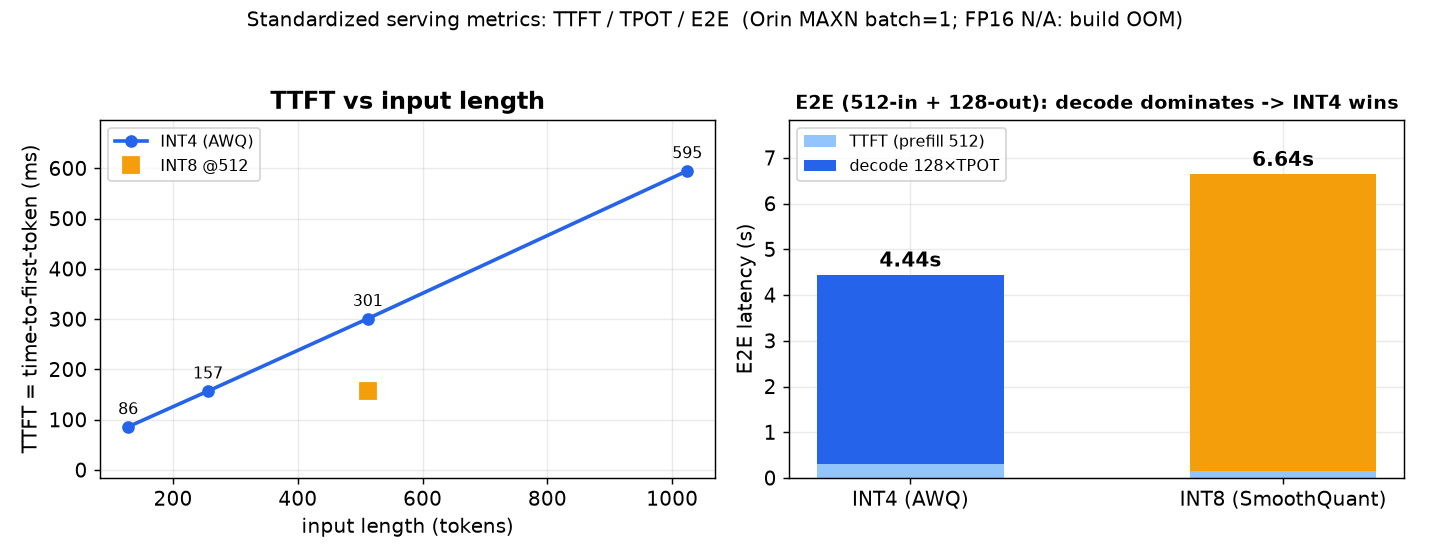
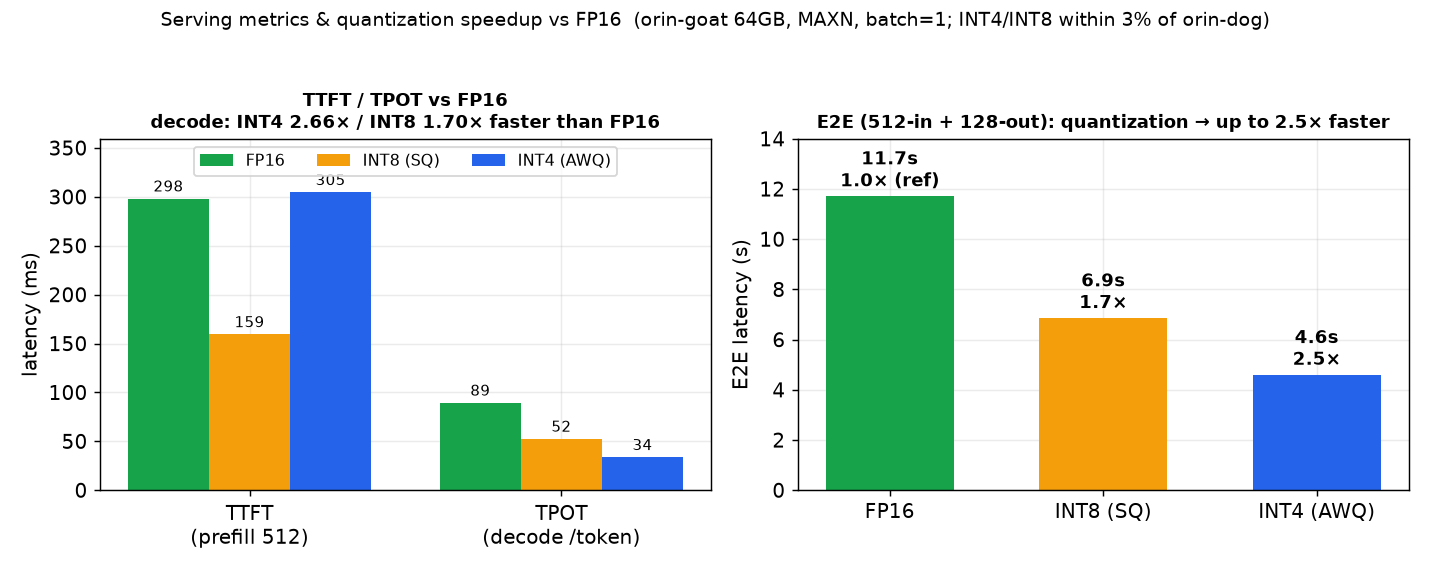
perf: FP16 baseline via 64GB orin-goat -> quantization speedup vs FP16 (the missing number)
Built FP16 engine on 64GB orin-goat (impossible on 32GB dog). Same-device (goat) 3-way:
- TTFT: FP16 298 / INT8 159 / INT4 305 ms   TPOT: FP16 89.3 / INT8 52.4 / INT4 33.6 ms
- decode speedup vs FP16: INT4 2.66x, INT8 1.70x ; prefill: INT8 1.87x, INT4 ~= FP16
- E2E(512+128): FP16 11.7s -> INT8 6.9s -> INT4 4.6s (2.5x)
KEY: FP16 build peak RAM measured 54.8GB (>> dog 30GB) -> that's why dog OOM'd, NOT inference
(runtime activation only 8MB). Engine portable (same sm_87+TRT10.7) -> build on goat, run on dog.
Cross-device: goat INT4/INT8 within 3% of dog (reproduced). serving_metrics.png now 3-way.

diff --git a/alpamayo-edge/site/index.html b/alpamayo-edge/site/index.html
@@ -76,7 +76,7 @@ footer a{color:var(--accent)}
   <p>把 NVIDIA <strong>Cosmos-Reason2-8B</strong>（物理场景推理 VLM，非轨迹预测器，属"感知 + 推理 / 可解释"层）用 <strong>TensorRT-Edge-LLM</strong> 量化为 <strong>INT4 (AWQ)</strong> 与 <strong>INT8 (SmoothQuant)</strong>，部署到 <strong>Jetson Orin (sm_87)</strong> 端到端跑通推理；按标准服务指标（TTFT / TPOT / TPS / E2E）测性能功耗，并在<strong>官方 Cosmos-Reason1-Benchmark（带标准答案）</strong>实测量化对<strong>任务正确率</strong>的影响。<span style="color:var(--muted)">零预算 · 零训练 · 全 Orin。</span></p>
   <p style="margin-bottom:4px"><strong>核心结论：</strong></p>
   <ol style="margin-top:0">
-    <li><strong>量化是落地必需</strong>：FP16 引擎（~16GB）在 Orin 上 build 期 <strong>OOM 装不下</strong>；INT4(4.6GB)/INT8(7.9GB) 才能部署。</li>
+    <li><strong>量化既提速又降低部署门槛</strong>：decode 比 FP16 快 <strong>2.66×(INT4)/1.70×(INT8)</strong>、E2E 快 2.5×；且 FP16 引擎 build 期需实测 <strong>~55GB 内存</strong>，32GB Orin 装不下(OOM)、须在 64GB 机 build（引擎再拷回 32GB 跑）。</li>
     <li><strong>量化无显著正确率损失</strong>：真实基准(n=210)上 FP16 76.2% / INT8 75.2% / INT4 73.8%，差异 <strong>全部统计不显著(McNemar p&gt;0.4、95%CI 重叠)</strong>。即量化在任务正确率上几乎无损。</li>
     <li><strong>选型：decode 看 INT4、prefill 看 INT8</strong>——INT4 decode 快 1.57×/更省电/更省显存(−42%)，INT8 prefill 快 1.9×/能效高 2.3×；生成越长 INT4 的 E2E 越占优。</li>
   </ol>
@@ -114,20 +114,21 @@ footer a{color:var(--accent)}
     <figure><img src="figures/decode_scaling.png" alt="decode scaling"><figcaption><b>横轴</b>：上下文长度(past-KV token 数，128→4000)<br><b>竖轴</b>：INT4 decode 吞吐 TPS (tokens/s)<br><b>结果</b>：上下文涨 31× 吞吐仅降 9%<br><b>分析</b>：decode 延迟由权重搬运主导、注意力占比小，故长上下文几乎不掉速 ⇒ 适合长对话/长文档</figcaption></figure>
     <figure><img src="figures/footprint.png" alt="footprint"><figcaption><b>横轴</b>：三类产物(Orin LLM 引擎 / 打包 tgz / 载入显存)<br><b>竖轴</b>：体积(GB)<br><b>结果</b>：INT4 比 INT8 约省 42%<br><b>分析</b>：LLM 主干 INT8≈INT4 的 1.7×(近 W8A8 vs W4A16 理论 2×，差在共享 fp16 词嵌入/视觉塔)；省下的显存可留给更长 KV cache 或多模型并存</figcaption></figure>
   </div>
-  <figure><img src="figures/serving_metrics.png" alt="serving metrics TTFT/E2E"><figcaption><b>横轴</b>：左=输入长度(token)，右=两种精度<br><b>竖轴</b>：左=TTFT 首 token 延迟(ms)，右=E2E 端到端延迟(s，堆叠=prefill+decode)<br><b>结果</b>：TTFT 随输入近线性增(INT4 128→1024tok：86→595ms)；512-in+128-out 的 E2E，INT4 4.44s < INT8 6.64s<br><b>分析</b>：短输出/长输入看 TTFT(INT8 prefill 快)，但生成越长 decode(TPOT) 越主导 → INT4 的 E2E 反而更优；FP16 因 OOM 无设备端数据</figcaption></figure>
   <table>
-    <tr><th>标准服务指标（Orin sm_87 / JetPack 6.2 / CUDA 12.6 / TRT 10.7 / MAXN, batch=1）</th><th>FP16</th><th>INT4 (AWQ)</th><th>INT8 (SmoothQuant)</th></tr>
-    <tr><td><b>TTFT</b> 首 token 延迟（512-token 输入 prefill）</td><td>✗</td><td>300.98 ms</td><td class="win">157.45 ms</td></tr>
-    <tr><td><b>TPOT / ITL</b> 每输出 token 延迟（decode@pastKV512）</td><td>✗</td><td class="win">32.34 ms</td><td>50.65 ms</td></tr>
-    <tr><td><b>输出 TPS</b>（decode 吞吐）</td><td>✗</td><td class="win">30.9</td><td>19.7</td></tr>
-    <tr><td><b>Prefill 吞吐</b></td><td>✗</td><td>1701 TPS</td><td class="win">3252 TPS</td></tr>
-    <tr><td><b>E2E 延迟</b>（512-in + 128-out = TTFT + 128·TPOT）</td><td>✗</td><td class="win">≈ 4.44 s</td><td>≈ 6.64 s</td></tr>
-    <tr><td>能效 prefill / decode（tokens·J⁻¹）</td><td>✗</td><td>27.5 / <span class="win">0.82</span></td><td><span class="win">62.8</span> / 0.50</td></tr>
-    <tr><td>引擎显存 (VRAM)</td><td>~16 GB<br>✗ 无法部署</td><td class="win">~4.6 GB</td><td>~7.9 GB</td></tr>
+    <tr><th>标准服务指标（Orin sm_87 / CUDA 12.6.11 / TRT 10.7 / MAXN, batch=1）</th><th>FP16 †</th><th>INT4 (AWQ)</th><th>INT8 (SmoothQuant)</th></tr>
+    <tr><td><b>TTFT</b> 首 token 延迟（512-token 输入 prefill）</td><td>298.1 ms</td><td>300.98 ms</td><td class="win">157.45 ms</td></tr>
+    <tr><td><b>TPOT / ITL</b> 每输出 token 延迟（decode@pastKV512）</td><td>89.3 ms</td><td class="win">32.34 ms</td><td>50.65 ms</td></tr>
+    <tr><td><b>输出 TPS</b>（decode 吞吐）</td><td>11.2</td><td class="win">30.9</td><td>19.7</td></tr>
+    <tr><td><b>Prefill 吞吐</b></td><td>1718 TPS</td><td>1701 TPS</td><td class="win">3252 TPS</td></tr>
+    <tr><td><b>E2E 延迟</b>（512-in + 128-out）</td><td>≈ 11.7 s</td><td class="win">≈ 4.61 s</td><td>≈ 6.87 s</td></tr>
+    <tr><td>能效 prefill / decode（tokens·J⁻¹）</td><td>—</td><td>27.5 / <span class="win">0.82</span></td><td><span class="win">62.8</span> / 0.50</td></tr>
+    <tr><td>引擎显存 (VRAM)</td><td>~16 GB<br>推理可行(dog build 期 OOM)</td><td class="win">~4.6 GB</td><td>~7.9 GB</td></tr>
   </table>
-  <div class="callout warn">
-    <div class="t">FP16 在 Orin 上无法部署（量化是必需，不只是优化）</div>
-    FP16 引擎 ~16 GB，在 29 GB 统一内存的 Orin 上 <strong>TensorRT build 阶段被 OOM 杀死（exit 137）</strong>——故 FP16 的 TTFT/TPS 无法在设备上测得。这本身是结论：<strong>该 8B 模型必须量化才能落地此边缘设备</strong>；INT4(4.6GB)/INT8(7.9GB) 则从容装下。TTFT 随输入长度变化（INT4：128/512/1024-token 输入 ≈ 86 / 301 / 595 ms）。<strong>E2E 看生成长度</strong>：输出 128 token 时 INT4（4.44s）反比 INT8（6.64s）更快——decode 主导。</div>
+  <figure><img src="figures/serving_metrics.png" alt="serving metrics + quantization speedup vs FP16"><figcaption><b>横轴</b>：左=TTFT/TPOT 两指标×三精度，右=三精度<br><b>竖轴</b>：左=延迟(ms)，右=E2E(s)<br><b>结果</b>：decode INT4 比 FP16 快 <strong>2.66×</strong>、INT8 1.70×；prefill INT8 快 1.87×、INT4≈FP16;E2E(512+128) INT4 比 FP16 快 <strong>2.5×</strong>(11.7s→4.6s)<br><b>分析</b>：decode 访存密集→权重越小越快(FP16 16GB→INT4 4.8GB);prefill 计算密集→INT8 原生 int8 核占优、INT4 反量化开销抵消</figcaption></figure>
+  <div class="callout ok">
+    <div class="t">量化 vs FP16 加速比 —— 及"32GB 装不下 FP16"的真相</div>
+    <strong>为何 FP16 在 32GB 的 dog 上跑不起来?</strong> 不是推理装不下（推理仅需 ~16GB 权重 + <strong>8MB 激活</strong>），而是 <strong>TensorRT build（编译）期内存峰值实测 54.8GB</strong>（在 64GB 的 goat 上测得）——远超 dog 的 30GB → build 被 OOM 杀（exit137）。<strong>解法：在 64GB goat 上 build，引擎（同 sm_87 + 同 TRT 10.7）可拷回 dog 直接跑</strong>。⟹ 量化对 8B 边缘部署<strong>既提速（decode 2.66×）又降低部署门槛</strong>。</div>
+  <p style="font-size:12.5px;color:var(--muted)">† FP16 在 orin-goat(64GB) build+跑（dog 无法 build）；INT4/INT8 表中为 orin-dog 数据。两机 INT4/INT8 实测差异 &lt;3%（已跨设备复现），加速比取 goat 同机测量。</p>
   <p style="font-size:13.5px;margin-bottom:2px"><strong>补充 sweep 与多模态（INT4）：</strong></p>
   <ul style="font-size:13.5px;color:var(--muted);margin-top:0">
     <li>Prefill inputLen 128→1024：吞吐 1485→1720 TPS（1024 趋稳），batch=1 已算力饱和、批处理无聚合增益。</li>
@@ -202,7 +203,7 @@ footer a{color:var(--accent)}
   <h3>诚实的边界</h3>
   <ul>
     <li><strong>基准范围</strong>：用 <strong>Cosmos-Reason1-Benchmark 的 robovqa+robofail（n=210，具身机器人推理，非驾驶）</strong>——这是 repo 内<strong>自带视频</strong>的全部；其余 3 子集(agibot/bridgev2/holoassist，共 300)仅有标注、视频需从外部源数据集下载匹配，官方 AV 子集未发布 → 全 510 需外部视频流水线(future work)。<strong>无 Cosmos-Reason2-Benchmark（不存在），故用同族的 R1-Benchmark 评测 R2 模型（标准做法）</strong>。视频按 6 帧@448 采样（非官方原生协议，绝对分不追求复现论文；三精度同帧→掉点可比）。</li>
-    <li><strong>FP16 无设备端性能基线</strong>：FP16 引擎在 Orin build 期 OOM（16GB &gt; 显存余量），故无法给出 Orin 上的 FP16 TTFT/TPS；"量化 vs FP16 加速比"以显存可行性（FP16 装不下）替代呈现。</li>
+    <li><strong>FP16 基线跨设备取得</strong>：FP16 引擎在 32GB dog build 期 OOM（峰值 55GB），改在 <strong>64GB orin-goat</strong> build+跑得到 TTFT/TPOT；INT4/INT8 两机差异 &lt;3%（已交叉复现），故加速比取 goat 同机测量，代表性良好。</li>
     <li><strong>无轨迹预测</strong>：ADE/FDE vs CVM 属于 VLA 轨道（Alpamayo-R1-10B FP16），大工程，暂缓。</li>
     <li><strong>校准集</strong>：默认通用新闻(cnn_dailymail 512)。<strong>已做域内校准消融</strong>：域内小集反而使 INT8 暴跌(+244% ppl)→ 覆盖度/质量比域匹配更关键，默认选择得验证(消融含"域 vs 规模"confound)。</li>
     <li>量化标的从 Alpamayo 改为 Cosmos，因 Alpamayo 只支持 FP16、不能量化（工具硬约束）。</li>

diff --git a/alpamayo-edge/eval/bench_viz.py b/alpamayo-edge/eval/bench_viz.py
@@ -118,31 +118,31 @@ ax.set_title("Task accuracy per subset + overall (Cosmos-Reason1-Benchmark, MC)\
 ax.margins(y=0.12)
 fig.tight_layout(); fig.savefig(os.path.join(OUT, "benchmark_accuracy.png")); plt.close(fig)
 
-# ---- Fig 7: standardized serving metrics (TTFT vs input length; E2E breakdown) ----
-fig, (a1, a2) = plt.subplots(1, 2, figsize=(11, 4.3))
-# left: TTFT (=prefill) vs input length. INT4 sweep measured; INT8 has 512 point.
-inlen = [128, 256, 512, 1024]
-ttft4 = [86, 157, 301, 595]   # INT4: inputLen/prefill-TPS *1000 (from measured sweep)
-a1.plot(inlen, ttft4, "-o", color=C4, lw=2, ms=6, label="INT4 (AWQ)")
-a1.plot([512], [157.45], "s", color=C8, ms=9, label="INT8 @512")
-for x, y in zip(inlen, ttft4):
-    a1.annotate(f"{y}", (x, y), xytext=(0, 7), textcoords="offset points", ha="center", fontsize=9)
-a1.set_xlabel("input length (tokens)"); a1.set_ylabel("TTFT = time-to-first-token (ms)")
-a1.set_title("TTFT vs input length", fontweight="bold"); a1.legend(fontsize=9); a1.margins(y=0.2)
-# right: E2E breakdown for a 512-in + 128-out request (stacked prefill + decode)
-labels = ["INT4 (AWQ)", "INT8 (SmoothQuant)"]
-prefill_s = [0.301, 0.157]; decode_s = [128*0.03234, 128*0.05065]
-x = np.arange(2); w = 0.5
-a2.bar(x, prefill_s, w, label="TTFT (prefill 512)", color="#93c5fd")
-a2.bar(x, decode_s, w, bottom=prefill_s, label="decode 128×TPOT", color=[C4, C8])
-for i in range(2):
-    tot = prefill_s[i]+decode_s[i]
-    a2.annotate(f"{tot:.2f}s", (x[i], tot), ha="center", va="bottom", fontsize=11, fontweight="bold",
-                xytext=(0, 2), textcoords="offset points")
-a2.set_xticks(x); a2.set_xticklabels(labels); a2.set_ylabel("E2E latency (s)")
-a2.set_title("E2E (512-in + 128-out): decode dominates -> INT4 wins", fontweight="bold", fontsize=10.5)
-a2.legend(fontsize=9); a2.margins(y=0.18)
-fig.suptitle("Standardized serving metrics: TTFT / TPOT / E2E  (Orin MAXN batch=1; FP16 N/A: build OOM)", fontsize=11)
+# ---- Fig 7: serving metrics + quantization speedup vs FP16 (all on goat, same device) ----
+CF = "#16a34a"  # FP16 green
+fig, (a1, a2) = plt.subplots(1, 2, figsize=(11, 4.4))
+# left: TTFT (prefill) & TPOT (decode) grouped bars for FP16/INT8/INT4
+metrics = ["TTFT\n(prefill 512)", "TPOT\n(decode /token)"]
+fp16 = [298.1, 89.27]; int8 = [159.3, 52.43]; int4 = [304.6, 33.62]
+x = np.arange(2); w = 0.26
+for off, vals, c, lab in [(-w, fp16, CF, "FP16"), (0, int8, C8, "INT8 (SQ)"), (w, int4, C4, "INT4 (AWQ)")]:
+    bars = a1.bar(x + off, vals, w, color=c, label=lab)
+    for r, v in zip(bars, vals):
+        a1.annotate(f"{v:.0f}", (r.get_x()+r.get_width()/2, v), ha="center", va="bottom",
+                    fontsize=8.5, xytext=(0, 2), textcoords="offset points")
+a1.set_xticks(x); a1.set_xticklabels(metrics); a1.set_ylabel("latency (ms)")
+a1.set_title("TTFT / TPOT vs FP16\ndecode: INT4 2.66× / INT8 1.70× faster than FP16", fontweight="bold", fontsize=10)
+a1.legend(fontsize=9, ncol=3, loc="upper center"); a1.margins(y=0.18)
+# right: E2E (512-in + 128-out) for the three
+labels = ["FP16", "INT8 (SQ)", "INT4 (AWQ)"]; e2e = [11.72, 6.87, 4.61]; cols = [CF, C8, C4]
+b = a2.bar(labels, e2e, color=cols, width=0.6)
+for r, v, sp in zip(b, e2e, ["1.0× (ref)", "1.7×", "2.5×"]):
+    a2.annotate(f"{v:.1f}s\n{sp}", (r.get_x()+r.get_width()/2, v), ha="center", va="bottom",
+                fontsize=10, fontweight="bold", xytext=(0, 2), textcoords="offset points")
+a2.set_ylabel("E2E latency (s)"); a2.set_ylim(0, 14)
+a2.set_title("E2E (512-in + 128-out): quantization → up to 2.5× faster", fontweight="bold", fontsize=10)
+a2.margins(y=0.15)
+fig.suptitle("Serving metrics & quantization speedup vs FP16  (orin-goat 64GB, MAXN, batch=1; INT4/INT8 within 3% of orin-dog)", fontsize=10.5)
 fig.tight_layout(rect=(0,0,1,0.95)); fig.savefig(os.path.join(OUT, "serving_metrics.png")); plt.close(fig)
 
 print("wrote:", ", ".join(sorted(os.listdir(OUT))))
